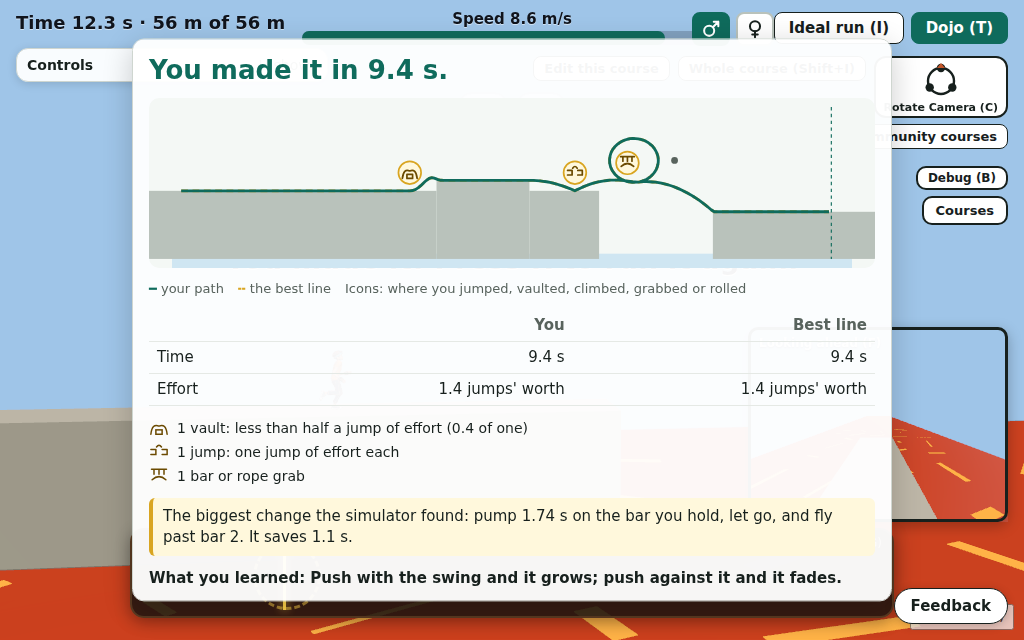
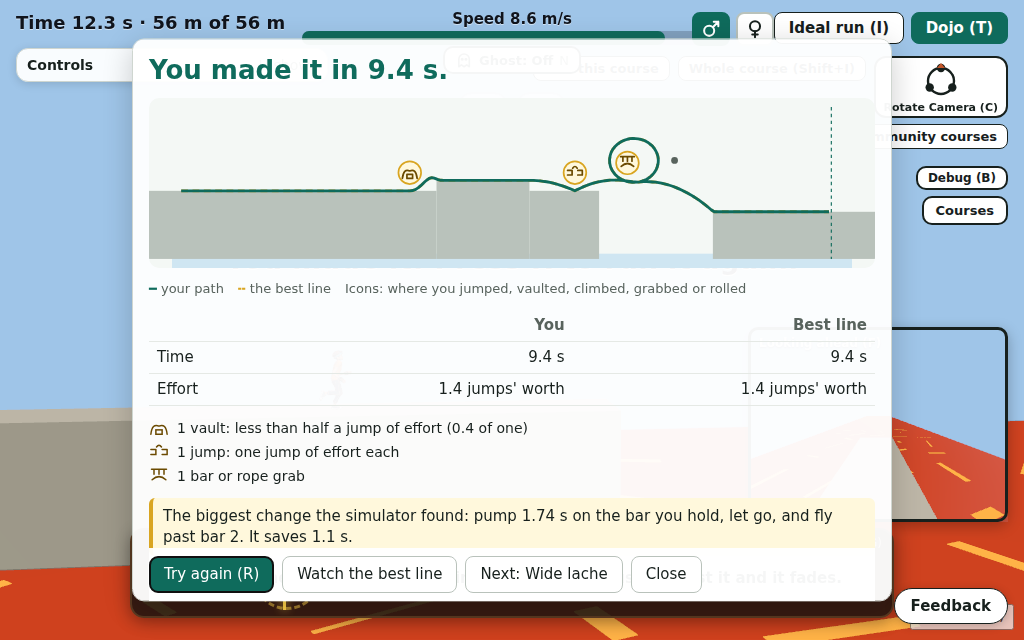
Training course: every move in one chain, proved by the simulator, with a stored plan; the report counts a rolled landing and keeps its buttons in view (Part of CC-97) - The chain: a 5 m gap jump, a vault, a lache pair over a gap wider than a jump (the second bar can be skipped with a full pump, sav
Claude-Session: https://claude.ai/code/session_011JteUH526KiCBBLbHey9D6

Changed region(s): [[0.125, 0.8438, 0.875, 0.9375]]

diff --git a/tests/training-course.test.ts b/tests/training-course.test.ts
@@ -1,0 +1,43 @@
+import { readFileSync } from 'node:fs';
+import { describe, expect, it } from 'vitest';
+import type { CourseData } from '../src/course/course';
+import { inputFor } from '../src/sim/ideal';
+import { newWorld, stepWorld } from '../src/sim/world';
+import { logTick, newLog } from '../src/ui/run-report';
+
+// The Training course (CC-97) shows every move in one chain, and the efficient line is not the obvious one.
+const c = JSON.parse(readFileSync('public/assets/demo/training.course.json', 'utf8')) as CourseData;
+function play() {
+  let w = newWorld(c); const log = newLog();
+  const st = { next: 0, caught: null, bedAt: null, hangAt: null, hangs: 0, vnext: 0, cnext: 0, inClimb: false, fnext: 0, airSince: null } as unknown as Parameters<typeof inputFor>[2];
+  for (let i = 0; i < 120 * 90 && w.outcome === 'running'; i++) { w = stepWorld(w, inputFor(c.plan!, w, st, c), c); logTick(log, w); }
+  return { w, log };
+}
+describe('the Training course', () => {
+  const { w, log } = play();
+  it('clears with its stored plan, on the ground, after the last obstacle', () => {
+    expect(w.outcome).toBe('cleared');
+    expect(w.runner.grounded).toBe(true);
+    expect(w.runner.x).toBeGreaterThanOrEqual(c.finishX);
+  });
+  it('uses every move: jump, vault, bar grab, climb, trampoline bounce and a roll', () => {
+    const kinds = new Set(log.moves.map((m) => m.kind));
+    for (const k of ['jump', 'vault', 'grab', 'climb', 'bounce', 'roll']) expect(kinds.has(k as never), k).toBe(true);
+  });
+  it('has one zone per beat, in the order they come', () => {
+    expect(c.zones!.map((z) => z.id)).toEqual(['gap', 'vault', 'lache', 'rope', 'climb', 'trampoline', 'drop']);
+    const xs = c.zones!.map((z) => z.x0); expect([...xs].sort((a, b) => a - b)).toEqual(xs);
+  });
+  it('the lache gap is wider than a jump, so the bars are needed', () => {
+    const p = c.terrain.platforms, gaps = p.slice(1).map((q, i) => q.x0 - p[i].x1);
+    expect(Math.max(...gaps.filter((g) => g > 9))).toBeGreaterThan(8.5);
+  });
+  it('the best line is not the obvious one: skipping the second bar saves time', () => {
+    expect(c.shortcuts?.some((s) => s.secondsSaved >= 0.5)).toBe(true);
+    expect(c.routes?.find((r) => r.chosen)?.bars).toBeLessThan(2);
+  });
+  it('the decks touch where a wall or a drop begins (no sliver to fall through)', () => {
+    const p = c.terrain.platforms;
+    for (let i = 1; i < p.length; i++) { const gap = p[i].x0 - p[i - 1].x1; if (gap > 0) expect(gap).toBeGreaterThan(0.5); }
+  });
+});

diff --git a/scripts/make-training-course.ts b/scripts/make-training-course.ts
@@ -1,0 +1,34 @@
+// The Training course (CC-97): every move in one chain, each beat on its own deck so one cue shows at a time. Run this, then `npx tsx scripts/plans.ts public/assets/demo/training.course.json` stores the proved plan.
+// Beats, in order: gap jump, vault a box, lache pair (the second bar can be skipped with a full pump), rope swing, climb a wall, trampoline, a drop with a roll.
+import { writeFileSync } from "node:fs";
+
+const platforms: { x0: number; x1: number; top: number; bouncy?: boolean }[] = [
+  { x0: -10, x1: 24, top: 0 }, // run
+  { x0: 29, x1: 48, top: 0 }, // after a 5 m gap jump
+  { x0: 48, x1: 56, top: 1 }, // the box to vault
+  { x0: 56, x1: 62, top: 0 },
+  { x0: 71.8, x1: 86, top: 0 }, // after the lache pair (9.8 m, more than a jump)
+  { x0: 94, x1: 112, top: 0 }, // after the rope (8 m gap)
+  { x0: 112, x1: 128, top: 2 }, // the 2 m wall to climb
+  { x0: 133, x1: 139, top: 0, bouncy: true }, // a 2 m drop onto the trampoline
+  { x0: 143, x1: 160, top: 3 }, // thrown up onto the high deck (it only clears with the bounce)
+  { x0: 160, x1: 200, top: -2 }, // a 5 m drop to roll out of
+];
+const course = {
+  version: 1, name: "Training course: every move", startX: 0, finishX: 178, jumpSpeed: 4.5, jumpKeep: 0.88,
+  terrain: { waterY: -6, platforms },
+  rope: { anchorX: 90, anchorY: 6.6, length: 9 },
+  holds: [{ x: 65, y: 2.9 }, { x: 68.5, y: 2.9 }],
+  zones: [
+    { id: "gap", name: "Gap jump", x0: 20, x1: 34 },
+    { id: "vault", name: "Vault", x0: 45, x1: 58 },
+    { id: "lache", name: "Lache pair", x0: 59, x1: 74 },
+    { id: "rope", name: "Rope swing", x0: 83, x1: 96 },
+    { id: "climb", name: "Climb", x0: 106, x1: 120 },
+    { id: "trampoline", name: "Trampoline", x0: 126, x1: 146 },
+    { id: "drop", name: "Drop and roll", x0: 154, x1: 170 },
+  ],
+  checkpoints: [{ id: "gap", x: 12 }, { id: "vault", x: 36 }, { id: "lache", x: 54 }, { id: "rope", x: 78 }, { id: "climb", x: 100 }, { id: "trampoline", x: 122 }, { id: "drop", x: 150 }],
+  hazard: "lava",
+};
+writeFileSync("public/assets/demo/training.course.json", JSON.stringify(course, null, 2) + "\n");

diff --git a/src/ui/run-report.ts b/src/ui/run-report.ts
@@ -28,7 +28,10 @@ const COST_OF: Partial<Record<MoveKind, string>> = {
 /** Adds this tick to the log: the path every few ticks, and every move the simulator reports. */
 export function logTick(l: RunLog, w: WorldState): void {
   if (w.runner.tick % 4 === 0) l.path.push({ x: w.runner.x, y: w.runner.y });
-  for (const e of w.events) { const k = MOVE_OF[e.type]; if (k) l.moves.push({ kind: k, x: w.runner.x, y: w.runner.y }); }
+  for (const e of w.events) {
+    const k = e.type === 'land' && e.detail?.rolled ? 'roll' : MOVE_OF[e.type]; // a landing the runner rolled out of counts as a roll
+    if (k) l.moves.push({ kind: k, x: w.runner.x, y: w.runner.y });
+  }
 }
 
 export interface BestLine { log: RunLog; seconds: number; spent: number }
@@ -198,7 +201,7 @@ export function renderReport(course: CourseData, log: RunLog, r: Report, a: Acti
   if (r.learned) tx('p', `What you learned: ${r.learned}`, 'margin:0;font-weight:600', box);
   if (r.saying && r.saying !== r.learned?.replace('What you learned: ', '')) tx('p', `“${r.saying}”`, 'margin:0;font-style:italic;color:#58635d', box);
   const slot = document.createElement('div'); slot.id = 'report-ghost-slot'; box.appendChild(slot); // the ghost (Chase the ghost) adds its button here
-  const row = document.createElement('div'); row.id = 'report-actions'; row.style.cssText = 'display:flex;gap:8px;flex-wrap:wrap';
+  const row = document.createElement('div'); row.id = 'report-actions'; row.style.cssText = 'display:flex;gap:8px;flex-wrap:wrap;position:sticky;bottom:-16px;background:#fffffff5;padding:8px 0';
   const btn = (label: string, go: () => void, primary = false, id?: string) => {
     const b = document.createElement('button'); b.textContent = label; if (id) b.id = id;
     b.style.cssText = `font:inherit;border:1px solid ${primary ? '#0f6b5c' : '#b9c2bb'};background:${primary ? '#0f6b5c' : '#fff'};color:${primary ? '#fff' : '#17201d'};border-radius:8px;padding:7px 14px;cursor:pointer;white-space:nowrap`;

diff --git a/tests/golden-search.test.ts b/tests/golden-search.test.ts
@@ -11,10 +11,10 @@ import type { Mesh } from "../src/slice/slice";
 import { newPiece, scaleBy, type Piece } from "../src/slice/world";
 
 // The answers of the search and of Fix it and the advice, as they were before they were made faster (CC-69): a faster search must give the same plans,
-// windows, fixes and advice. The two slowest courses are checked by `scripts/bench-pool.ts` instead (a whole-course search of a minute).
+// windows, fixes and advice. The slowest courses (the generated sample, the wide lache and the Training course) are checked by `scripts/bench-pool.ts` instead (a whole-course search of a minute).
 const golden = JSON.parse(readFileSync("tests/golden/search.json", "utf8")) as Record<string, string>;
 const hash = (v: unknown) => createHash("sha256").update(JSON.stringify(v)).digest("hex").slice(0, 16);
-const SLOW = ["generated-1.course.json", "lache-wide.course.json"];
+const SLOW = ["generated-1.course.json", "lache-wide.course.json", "training.course.json"];
 
 const box = (w: number, h: number, d: number): Mesh => {
   const [x0, x1, y0, y1, z0, z1] = [-w / 2, w / 2, 0, h, -d / 2, d / 2];

diff --git a/src/course/demo-list.ts b/src/course/demo-list.ts
@@ -1,5 +1,6 @@
 // The demo courses that carry a stored whole-course plan (Shift+I plays it at once). `npm run plans` rewrites them.
 export const DEMO_COURSE_FILES = [
+  'public/assets/demo/training.course.json',
   'public/assets/demo/lache.course.json',
   'public/assets/demo/drop.course.json',
   'public/assets/demo/plank.course.json',
